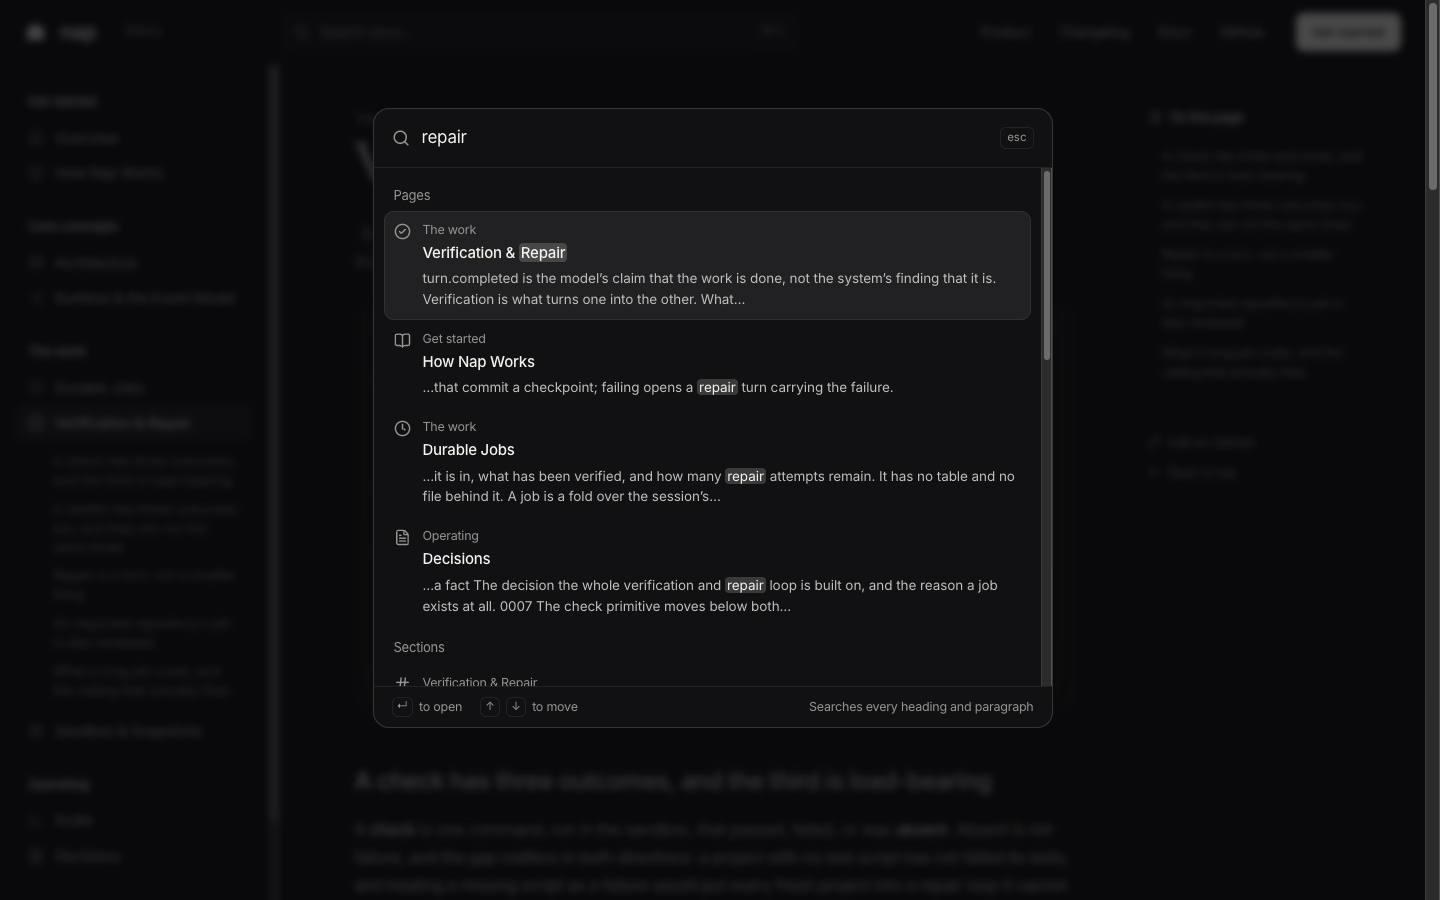
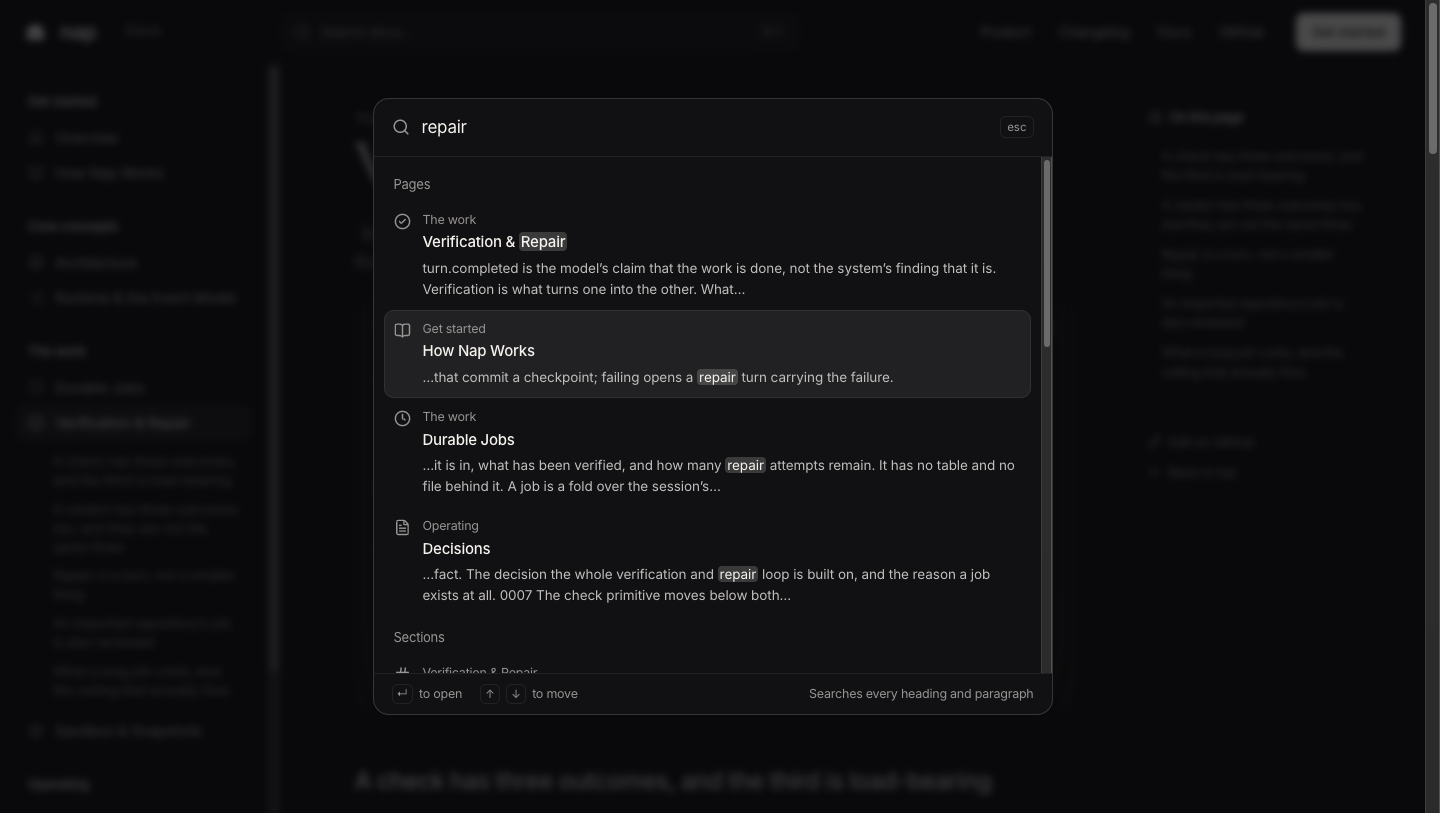
fix(verify-nap): keep a phone width between commands, and end snippets' sentences
The independent check found the docs recipe's menu step closing the menu
it had just opened: the emulated phone viewport lapses between driver
commands, the page snapped back to the 1440 window, and the menu closes
when the window widens. resize now also sizes the window as close as
headless Chrome allows, so between commands the page stays narrow.

Search snippets ran a title into the line under it; a paragraph, list
item or cell whose text has no stop of its own now ends one.

diff --git a/apps/verify-nap/scripts/verify-nap.ts b/apps/verify-nap/scripts/verify-nap.ts
@@ -312,9 +312,29 @@ async function stopRun(directory: string) {
 /**
  * The viewport `resize` chose, kept in the run directory. An emulated viewport belongs to the
  * DevTools connection that set it and lapses when a command detaches, and headless Chrome will not
- * size its window below 500 pixels, so a phone width is set again at the start of every command.
+ * size its window below 500 pixels, so a phone width is set again at the start of every command
+ * (and the window is sized as close to it as Chrome allows, by `sizeWindow`).
  */
 const VIEWPORT_FILE = "viewport.json";
+
+/**
+ * The window itself, which unlike the emulated viewport keeps its size after a command detaches.
+ * Headless Chrome will not make it narrower than 500 pixels, so a phone width still needs the
+ * emulation; but between two commands the page then sits at 500 rather than snapping back to the
+ * fixture's 1440, which would cross every layout breakpoint in between and close anything a page
+ * closes when the window widens (the docs' phone menu does).
+ */
+async function sizeWindow(page: Page, width: number, height: number) {
+  const session = await page.context().newCDPSession(page);
+  const { windowId } = await session.send("Browser.getWindowForTarget");
+  await session.send("Browser.setWindowBounds", {
+    windowId,
+    bounds: { width: Math.max(width, MIN_WINDOW_WIDTH), height, windowState: "normal" },
+  });
+  await session.detach();
+}
+
+const MIN_WINDOW_WIDTH = 500;
 
 async function applyViewport(page: Page, directory: string) {
   const raw = await readFile(join(directory, VIEWPORT_FILE), "utf8").catch(() => null);
@@ -426,6 +446,7 @@ async function main() {
       if (command.kind === "resize") {
         // Applied before it is saved, so a size Chrome refuses never reaches the commands after.
         await page.setViewportSize({ width: command.width, height: command.height });
+        await sizeWindow(page, command.width, command.height);
         await writeFile(
           join(directory, VIEWPORT_FILE),
           JSON.stringify({ width: command.width, height: command.height }),

diff --git a/apps/web/src/docs/text.ts b/apps/web/src/docs/text.ts
@@ -19,14 +19,20 @@ function rawText(node: ReactNode): string {
   if (Array.isArray(node)) return node.map(rawText).join("");
   if (isValidElement<{ children?: ReactNode }>(node)) {
     const inner = rawText(node.props.children);
+    if (typeof node.type !== "string" || INLINE.has(node.type)) return inner;
     // A paragraph or list item ends a word even when the markup puts the next one flush
-    // against it; an inline element such as `em` does not.
-    return typeof node.type === "string" && !INLINE.has(node.type) ? ` ${inner} ` : inner;
+    // against it, and a sentence when its text has no stop of its own: a title and the line under
+    // it read as two, not as one run-on sentence, in a search result's snippet.
+    const text = inner.trim();
+    return SENTENCE.has(node.type) && text && !/[.!?:;,…—-]$/.test(text)
+      ? ` ${text}. `
+      : ` ${inner} `;
   }
   return "";
 }
 
 const INLINE = new Set(["a", "b", "code", "em", "i", "span", "strong"]);
+const SENTENCE = new Set(["p", "li", "dt", "dd", "td", "th"]);
 
 /**
  * A heading's anchor: lower case, ASCII letters and digits, hyphens between words. Apostrophes

diff --git a/apps/web/src/docs/outline.test.tsx b/apps/web/src/docs/outline.test.tsx
@@ -37,10 +37,11 @@ describe("a section's outline", () => {
 
   it("separates words that sit in separate elements", () => {
     // The decisions list puts a title and its sentence in two paragraphs with no space between
-    // them in the markup; read naively they become one run-on word.
+    // them in the markup; read naively they become one run-on word, and with only a space, one
+    // run-on sentence in a search snippet.
     const decisions = SECTIONS.find((section) => section.id === "decisions");
     const text = decisions ? outlineOf(decisions.Body).blocks.map((block) => block.text) : [];
-    expect(text.join(" ")).toContain("pure package and an app Tasks, scoring");
+    expect(text.join(" ")).toContain("pure package and an app. Tasks, scoring");
   });
 
   it("collapses the whitespace that JSX source carries across lines", () => {

diff --git a/.agents/skills/verify-nap/features/docs.md b/.agents/skills/verify-nap/features/docs.md
@@ -61,9 +61,11 @@ resize --width 1440 --height 900
   page" and once as the heading. `click --role link` on it fails as ambiguous. Open the list, then
   `press --key Tab` to the entry and `press --key Enter`.
 - `resize` sets a viewport that every later command reapplies, because an emulated viewport lapses
-  when a command detaches. Between commands the page is briefly back at the window's width, which
-  can move its scroll position, so check the "On this page" mark within one command's view (open
-  the list after the jump and `shot`), not by comparing two. Set it back to 1440×900 before a
-  recipe that expects the default width.
+  when a command detaches. It also sizes the window as near as headless Chrome allows (500 pixels
+  wide at least), so between commands a phone-width page sits at 500, not the fixture's 1440, and
+  the menu, which closes when the window widens past 1024, stays open. The brief width change can
+  still move the scroll position, so check the "On this page" mark within one command's view (open
+  the list after the jump and `shot`). Set it back to 1440×900 before a recipe that expects the
+  default width.
 - The fixture serves a copy of `apps/web/src` taken at startup. An edit made after `verify-nap:up`
   does not reach it until it is copied into `.scratch/verify-nap-<id>/web/src`.
